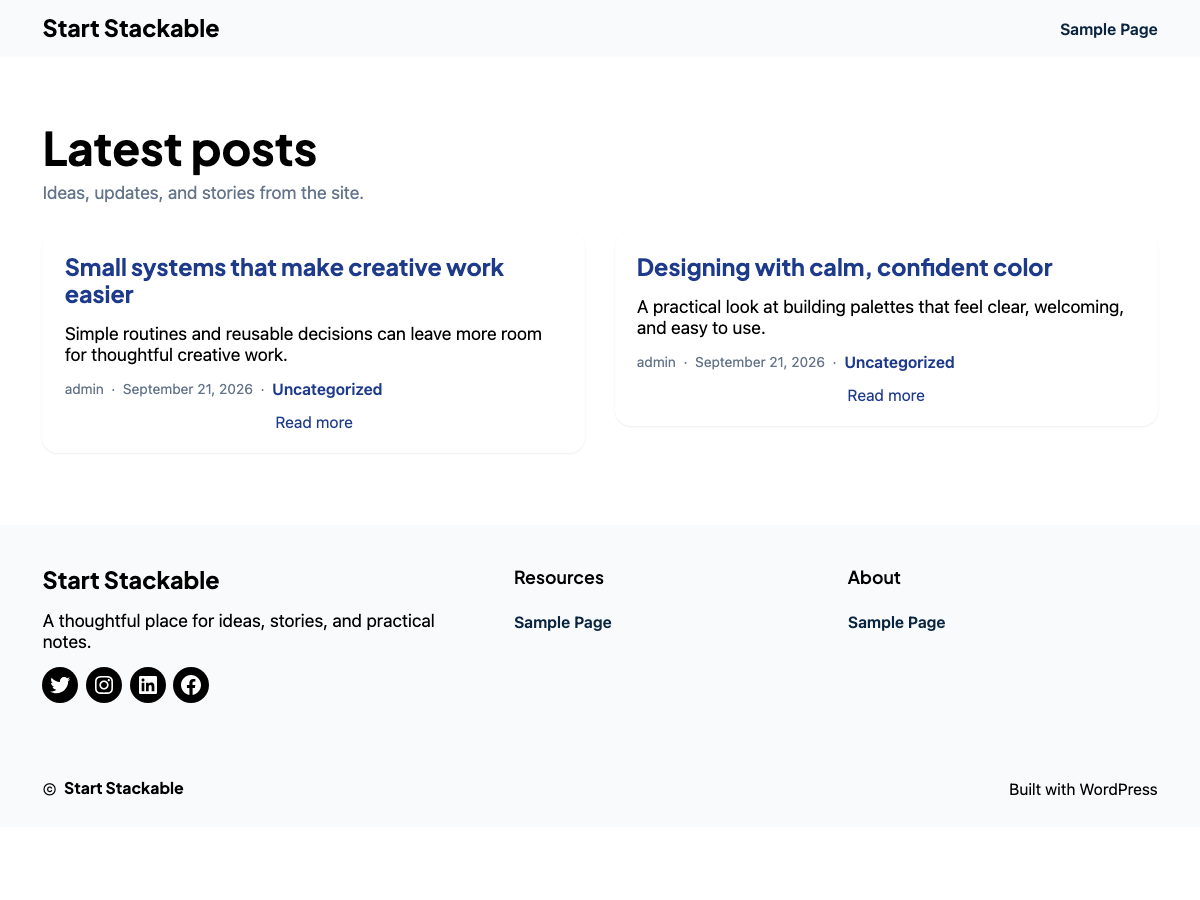
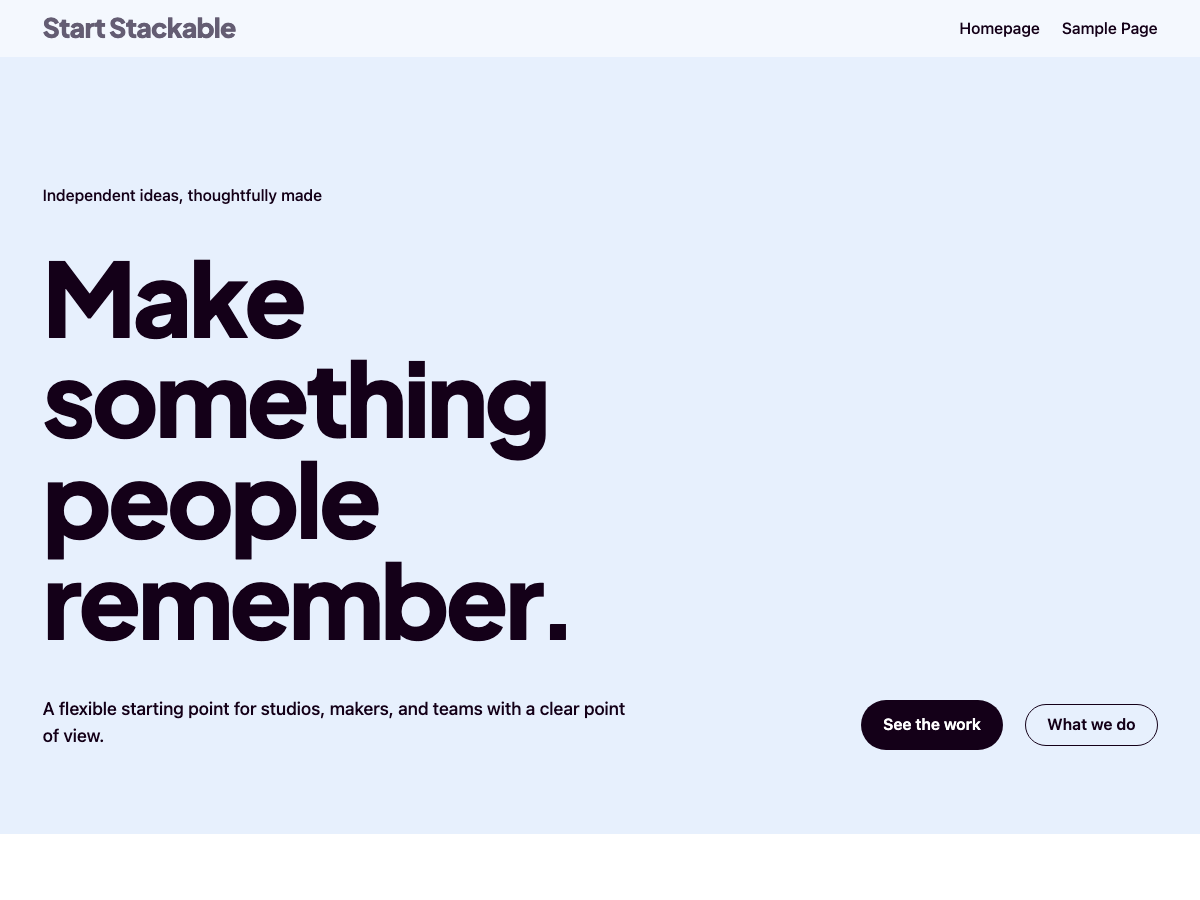
fix: per block styles should work

diff --git a/e2e/tests/tokens-and-variations.spec.ts b/e2e/tests/tokens-and-variations.spec.ts
@@ -70,6 +70,7 @@ type ThemeGlobalStyles = {
 	}
 	styles: {
 		blocks: Record< string, unknown >
+		css?: string
 		elements: Record< string, unknown >
 		typography: {
 			fontFamily: string
@@ -180,7 +181,7 @@ test.describe( 'Tokens and style variations', () => {
 		designSystemCheckPage = await requestUtils.createRecord< RestRecord >( 'pages', {
 			title: 'Phase 2 Design System Check',
 			slug: `phase-2-design-system-check-${ Date.now() }`,
-			content: '<!-- wp:heading --><h2 class="wp-block-heading">Palette heading</h2><!-- /wp:heading --><!-- wp:paragraph --><p>Default body copy.</p><!-- /wp:paragraph --><!-- wp:buttons --><div class="wp-block-buttons"><!-- wp:button --><div class="wp-block-button"><a class="wp-block-button__link wp-element-button">Primary action</a></div><!-- /wp:button --></div><!-- /wp:buttons --><!-- wp:quote --><blockquote class="wp-block-quote"><!-- wp:paragraph --><p>Default quote.</p><!-- /wp:paragraph --><cite>Source</cite></blockquote><!-- /wp:quote --><!-- wp:search {"label":"Search","showLabel":false,"buttonText":"Search"} /-->',
+			content: '<!-- wp:heading --><h2 class="wp-block-heading">Palette heading</h2><!-- /wp:heading --><!-- wp:paragraph --><p>Default body copy.</p><!-- /wp:paragraph --><!-- wp:buttons --><div class="wp-block-buttons"><!-- wp:button --><div class="wp-block-button"><a class="wp-block-button__link wp-element-button">Primary action</a></div><!-- /wp:button --></div><!-- /wp:buttons --><!-- wp:quote --><blockquote class="wp-block-quote"><!-- wp:paragraph --><p>Default quote.</p><!-- /wp:paragraph --><cite>Source</cite></blockquote><!-- /wp:quote --><!-- wp:search {"label":"Search","showLabel":false,"buttonText":"Search"} /--><!-- wp:group {"className":"global-spacing-check","layout":{"type":"constrained"}} --><div class="wp-block-group global-spacing-check"><!-- wp:paragraph --><p>First spacing check.</p><!-- /wp:paragraph --><!-- wp:paragraph --><p>Second spacing check.</p><!-- /wp:paragraph --></div><!-- /wp:group -->',
 			status: 'publish',
 		} )
 		seededPost = await requestUtils.createRecord< RestRecord >( 'posts', {
@@ -284,6 +285,7 @@ test.describe( 'Tokens and style variations', () => {
 		expect( themeStyles.styles.typography.fontFamily ).toBe(
 			'var(--wp--preset--font-family--sans-serif)'
 		)
+		expect( themeStyles.styles.css ).toBeUndefined()
 		expect( Object.keys( themeStyles.styles.elements ) ).toEqual(
 			expect.arrayContaining( REQUIRED_ELEMENT_STYLES )
 		)
@@ -419,6 +421,34 @@ test.describe( 'Tokens and style variations', () => {
 			background: 'rgb(199, 210, 254)',
 			text: 'rgb(11, 17, 32)',
 		} )
+	} )
+
+	test( 'user block spacing overrides the theme spacing default', async ( {
+		page,
+		requestUtils,
+	} ) => {
+		await applyStyleVariation( requestUtils, {
+			title: 'Custom group spacing',
+			styles: {
+				blocks: {
+					'core/group': {
+						spacing: {
+							blockGap: '7px',
+						},
+					},
+				},
+			},
+		} )
+		await page.goto( new URL( designSystemCheckPage.link ).pathname )
+
+		const firstParagraph = page.getByText( 'First spacing check.', { exact: true } )
+		const secondParagraph = page.getByText( 'Second spacing check.', { exact: true } )
+		const firstBox = await firstParagraph.boundingBox()
+		const secondBox = await secondParagraph.boundingBox()
+
+		expect( firstBox ).not.toBeNull()
+		expect( secondBox ).not.toBeNull()
+		expect( secondBox!.y - ( firstBox!.y + firstBox!.height ) ).toBeCloseTo( 7, 0 )
 	} )
 
 	test( 'typography variations change visible front-end type', async ( {

diff --git a/e2e/tests/patterns.spec.ts b/e2e/tests/patterns.spec.ts
@@ -202,7 +202,13 @@ test.describe( 'Pattern catalog', () => {
 			await expect( page.getByRole( 'heading', { level: 1, name: 'Make something people remember.' } ) ).toBeVisible()
 			await expect( page.getByRole( 'link', { name: 'See the work' } ) ).toBeVisible()
 			await expect( page.getByRole( 'heading', { name: 'Selected work' } ) ).toBeVisible()
-			await expect( page.locator( '#selected-work > .wp-block-group > .wp-block-columns > .wp-block-column' ) ).toHaveCount( 2 )
+			const workColumns = page.locator( '#selected-work > .wp-block-group > .wp-block-columns > .wp-block-column' )
+			await expect( workColumns ).toHaveCount( 2 )
+			const firstWorkCardBox = await workColumns.nth( 0 ).locator( '> .wp-block-group' ).boundingBox()
+			const secondWorkCardBox = await workColumns.nth( 1 ).locator( '> .wp-block-group' ).boundingBox()
+			expect( firstWorkCardBox ).not.toBeNull()
+			expect( secondWorkCardBox ).not.toBeNull()
+			expect( secondWorkCardBox!.y ).toBeCloseTo( firstWorkCardBox!.y, 0 )
 			await expect( page.getByRole( 'heading', { name: 'From the first question to the final detail.' } ) ).toBeVisible()
 			await expect( page.getByRole( 'heading', { name: 'Notes and stories' } ) ).toBeVisible()
 			await expect( page.locator( '#latest-stories .wp-block-query' ) ).toBeVisible()

diff --git a/e2e/tests/canvases.spec.ts b/e2e/tests/canvases.spec.ts
@@ -87,6 +87,11 @@ test.describe( 'Page canvases', () => {
 		await expect( page.getByRole( 'banner' ).getByRole( 'navigation' ) ).toBeVisible()
 		await expect( page.locator( '.wp-block-post-title' ) ).toHaveCount( 0 )
 		await expect( page.getByRole( 'contentinfo' ).getByRole( 'heading', { name: 'Resources' } ) ).toBeVisible()
+		const headerBox = await page.getByRole( 'banner' ).boundingBox()
+		const mainBox = await page.getByRole( 'main' ).boundingBox()
+		expect( headerBox ).not.toBeNull()
+		expect( mainBox ).not.toBeNull()
+		expect( mainBox!.y ).toBeCloseTo( headerBox!.y + headerBox!.height, 0 )
 		const fullBlock = page.locator( '.wp-block-post-content > .alignfull' )
 		const fullBox = await fullBlock.boundingBox()
 		expect( fullBox ).not.toBeNull()

diff --git a/patterns/page-home.php b/patterns/page-home.php
@@ -92,8 +92,8 @@
 <!-- /wp:group --></div>
 <!-- /wp:column -->
 
-<!-- wp:column {"style":{"spacing":{"padding":{"top":"var:preset|spacing|xx-large"}}}} -->
-<div class="wp-block-column" style="padding-top:var(--wp--preset--spacing--xx-large)"><!-- wp:group {"backgroundColor":"primary-deep","textColor":"base","style":{"border":{"radius":"var:preset|border-radius|large"},"dimensions":{"minHeight":"560px"},"spacing":{"blockGap":"var:preset|spacing|medium","padding":{"top":"var:preset|spacing|x-large","right":"var:preset|spacing|x-large","bottom":"var:preset|spacing|x-large","left":"var:preset|spacing|x-large"}}},"layout":{"type":"flex","orientation":"vertical","justifyContent":"space-between"}} -->
+<!-- wp:column -->
+<div class="wp-block-column"><!-- wp:group {"backgroundColor":"primary-deep","textColor":"base","style":{"border":{"radius":"var:preset|border-radius|large"},"dimensions":{"minHeight":"560px"},"spacing":{"blockGap":"var:preset|spacing|medium","padding":{"top":"var:preset|spacing|x-large","right":"var:preset|spacing|x-large","bottom":"var:preset|spacing|x-large","left":"var:preset|spacing|x-large"}}},"layout":{"type":"flex","orientation":"vertical","justifyContent":"space-between"}} -->
 <div class="wp-block-group has-base-color has-primary-deep-background-color has-text-color has-background" style="border-radius:var(--wp--preset--border-radius--large);min-height:560px;padding-top:var(--wp--preset--spacing--x-large);padding-right:var(--wp--preset--spacing--x-large);padding-bottom:var(--wp--preset--spacing--x-large);padding-left:var(--wp--preset--spacing--x-large)"><!-- wp:paragraph {"fontSize":"small"} -->
 <p class="has-small-font-size"><?php esc_html_e( '02 · Strategy and experience', 'start-stackable' ); ?></p>
 <!-- /wp:paragraph -->

diff --git a/patterns/template-full-width.php b/patterns/template-full-width.php
@@ -9,8 +9,8 @@
 
 <!-- wp:template-part {"slug":"header","tagName":"header"} /-->
 
-<!-- wp:group {"tagName":"main","align":"full","layout":{"type":"default"}} -->
-<main class="wp-block-group alignfull"><!-- wp:post-content {"align":"full","layout":{"type":"default"}} /--></main>
+<!-- wp:group {"tagName":"main","align":"full","style":{"spacing":{"margin":{"top":"0"}}},"layout":{"type":"default"}} -->
+<main class="wp-block-group alignfull" style="margin-top:0"><!-- wp:post-content {"align":"full","layout":{"type":"default"}} /--></main>
 <!-- /wp:group -->
 
 <!-- wp:template-part {"slug":"footer","tagName":"footer"} /-->

diff --git a/docs/prd/start-stackable.agents.md b/docs/prd/start-stackable.agents.md
@@ -66,7 +66,7 @@ If a kit needs a new header or footer behavior, add it here and extend this list
 | Navigation overflow | At desktop widths, header Navigation stays on one line and moves only trailing items that do not fit into an accessible More disclosure. At mobile widths, core Navigation owns the overlay and receives every original item. |
 | Hide header / hide footer | Per-page via `blank` canvas and/or a page flag the plugin can set on import. |
 | `page` | Standard page: header, title allowed, footer. |
-| `full-width` | Marketing canvas: header + footer, **no** theme page title, **no** extra main padding that blocks `alignfull` heroes. |
+| `full-width` | Marketing canvas: header + footer, **no** theme page title, **no** gap between the header and `main`, and **no** extra main padding that blocks `alignfull` heroes. |
 | `page-with-sidebar` | Editorial canvas: header + footer, page title, two-thirds main content, and the editable `sidebar` part. It stacks content before the sidebar on small screens. |
 | `blank` | Post content only. No header, no footer. |
 | `sidebar` | Editable core-block template part used by `page-with-sidebar`; ships with Search, Latest Posts, and Categories. |
@@ -126,7 +126,8 @@ Not allowed: a section catalog of heroes, pricing, testimonials, team, FAQ, logo
 Do not take a later gap first.
 Each item is gone or explicitly deferred in an ADR.
 
-- Phase 10-11: no `screenshot.png`; snap-in contract on paper only.
+- Phase 10: directory packaging acceptance remains.
+- Phase 11: snap-in contract is on paper only.
 
 ## Implementation sequence
 
@@ -164,7 +165,7 @@ Then run that phase in [`start-stackable.check.md`](./start-stackable.check.md).
 | `assets/fonts/` | Plus Jakarta Sans (headings) |
 | `assets/images/` | CC0 pattern images |
 | `webpack.config.js` | `@wordpress/scripts` entry → `assets/build/` |
-| `screenshot.png` | Directory first paint (must match Default) |
+| `screenshot.png` | Directory first paint of the Homepage starter on Full Width (must use Default styles) |
 | `readme.txt` | Directory listing, licenses |
 
 ## E2E (create these after the surface exists)
@@ -180,11 +181,11 @@ Do not add failing specs for an unfinished header or footer.
 | Spec file (intended) | Assertions |
 | --- | --- |
 | `e2e/tests/standalone-activate.spec.ts` | Theme activates; the missing-plugin notice points to the WordPress.org Stackable slug; `/` shows header + post grid + footer; no `stackable/` in markup; Navigation has no stale `ref`. |
-| `e2e/tests/tokens-and-variations.spec.ts` | Default palette slugs exist; switching a color or typography variation updates presets on the front. |
+| `e2e/tests/tokens-and-variations.spec.ts` | Default palette slugs exist; switching a color or typography variation updates presets on the front; user block spacing overrides the theme default. |
 | `e2e/tests/blog.spec.ts` | Create a post with featured image; `single` shows title, image, date, comments form; `home`/`archive` shows a grid card; `search` finds it; `404` shows search. |
-| `e2e/tests/canvases.spec.ts` | Page on `page` shows title; same page on `full-width` has no theme `h1` from Post Title and content can be `alignfull`; `page-with-sidebar` renders primary content before an editable sidebar and stacks without overflow; `blank` has no header/footer in the DOM. |
+| `e2e/tests/canvases.spec.ts` | Page on `page` shows title; same page on `full-width` has no theme `h1` from Post Title, starts `main` directly after the header, and content can be `alignfull`; `page-with-sidebar` renders primary content before an editable sidebar and stacks without overflow; `blank` has no header/footer in the DOM. |
 | `e2e/tests/header-flags.spec.ts` | Transparent header overlays a full-bleed first section; after scroll, header background is opaque; `--stk-header-height` is a non-zero px value; mobile menu opens above the hero; desktop Navigation moves only non-fitting trailing links into More and restores them for wide and mobile layouts. |
-| `e2e/tests/patterns.spec.ts` | The complete catalog registers with intended visibility; a new page offers exactly one Homepage starter; the starter renders cleanly on Full Width in Default and Dark. |
+| `e2e/tests/patterns.spec.ts` | The complete catalog registers with intended visibility; a new page offers exactly one Homepage starter; the starter renders cleanly on Full Width in Default and Dark, with its Selected Work cards aligned on one desktop row. |
 | `e2e/tests/woocommerce.spec.ts` | With WooCommerce active: theme templates register and open without recovery UI; catalog, taxonomy, search, product, cart, checkout, My Account, order confirmation, and anonymous store-only Coming Soon render; mobile commerce views do not overflow. |
 | `e2e/tests/onboarding.spec.ts` | Theme activation creates no content; installed-inactive Stackable can be activated by the user; active Stackable receives the breakpoints and suppresses the notice; after deactivation and dismiss the notice stays gone. |
 | `e2e/tests/with-plugin-snap-in.spec.ts` | With Stackable active: `body` has `stk--is-stackable-theme`; a fixture kit import (plugin e2e) assigns `full-width` and transparent header without missing blocks. |

diff --git a/e2e/readme.md b/e2e/readme.md
@@ -89,11 +89,11 @@ opens the editor. Do not listen for console `Block validation` messages.
 | Spec | Assertions (shipped now) |
 | --- | --- |
 | `e2e/tests/standalone-activate.spec.ts` | Theme activates from a default theme; the missing-plugin notice points to the WordPress.org Stackable slug; the front shows the pattern-backed header, navigation, footer, and user-site copyright; standard and full-width pages resolve the active theme's header/footer; Site Editor renders every shell part without missing-part or recovery UI; no `stackable/` markup; 404 template renders. |
-| `e2e/tests/tokens-and-variations.spec.ts` | WordPress exposes the complete Default token contract, including the ink and pale blue palette, expanded fluid spacing/type, 20px large radius, pill actions, fonts, element styles, and required block styles; core headings, buttons, and quotes render those defaults; every color variation keeps the same palette slugs; Dark recolors the shell and content; both typography presets change visible front-end type. |
+| `e2e/tests/tokens-and-variations.spec.ts` | WordPress exposes the complete Default token contract, including the ink and pale blue palette, expanded fluid spacing/type, 20px large radius, pill actions, fonts, element styles, and required block styles; core headings, buttons, and quotes render those defaults; user block spacing overrides the theme default; every color variation keeps the same palette slugs; Dark recolors the shell and content; both typography presets change visible front-end type. |
 | `e2e/tests/blog.spec.ts` | The latest-posts and configured posts-page grids share complete responsive cards, including equal desktop columns and a single mobile column; untitled cards retain working permalinks with and without images across blog, archive, and search; single posts honor wide/full content alignment and mobile text gutters without overflow; single, archive, search, empty search, and 404 views are designed; blog templates render both header/footer parts in Site Editor without missing-part or recovery UI. |
-| `e2e/tests/canvases.spec.ts` | Standard pages show a theme title and constrained text; Full Width removes the theme title and lets its first `alignfull` block reach both viewport edges on desktop and mobile; Page with Sidebar keeps content primary and stacks cleanly on mobile; Blank renders content without header, footer, or theme title; all four hidden canvas patterns register and load in Site Editor without recovery UI. |
+| `e2e/tests/canvases.spec.ts` | Standard pages show a theme title and constrained text; Full Width removes the theme title, starts `main` directly after the header, and lets its first `alignfull` block reach both viewport edges on desktop and mobile; Page with Sidebar keeps content primary and stacks cleanly on mobile; Blank renders content without header, footer, or theme title; all four hidden canvas patterns register and load in Site Editor without recovery UI. |
 | `e2e/tests/header-flags.spec.ts` | Sticky and transparent body flags normalize onto the header wrapper; the header overlays a full-width hero, becomes solid after scroll with contrast-safe text, exposes a non-zero height token, and keeps a full-viewport, closable mobile navigation overlay above the hero. Long desktop Navigation stays on one line by moving only trailing links into an accessible More disclosure, then restores every link on wide desktop and in core's mobile overlay. |
-| `e2e/tests/patterns.spec.ts` | WordPress registers the complete 28-pattern catalog with the intended visibility and block types; new pages offer exactly one Homepage starter; the starter renders full-bleed and without overflow on Full Width, remains contrast-safe in Default and Dark, and opens in the editor without recovery UI. |
+| `e2e/tests/patterns.spec.ts` | WordPress registers the complete 28-pattern catalog with the intended visibility and block types; new pages offer exactly one Homepage starter; the starter renders full-bleed and without overflow on Full Width, aligns its Selected Work cards on one desktop row, remains contrast-safe in Default and Dark, and opens in the editor without recovery UI. |
 | `e2e/tests/woocommerce.spec.ts` | The WooCommerce profile verifies plugin activation; seven theme commerce templates register and open in the Site Editor without recovery UI; seeded catalog, category, product search, single product, Cart, Checkout, My Account, order confirmation, and anonymous store-only Coming Soon views render; mobile commerce views fit 375px; Dark restyles order confirmation. |
 | `e2e/tests/onboarding.spec.ts` | The onboarding profile verifies theme activation creates no pages or Navigation records; installed-inactive Stackable has a user-initiated activation action; active Stackable suppresses the notice, keeps the shell body class, and receives the responsive breakpoints; dismissal persists after deactivation and reload. |
 

diff --git a/docs/prd/start-stackable.check.md b/docs/prd/start-stackable.check.md
@@ -104,7 +104,7 @@ Stop if law and the tree disagree; law wins.
 ## Phase 5 - Canvases
 
 - [ ] `page` template shows a theme post title.
-- [ ] `full-width` has no Post Title block and no extra `main` padding that blocks `alignfull`.
+- [ ] `full-width` has no Post Title block, no gap between the header and `main`, and no extra `main` padding that blocks `alignfull`.
 - [ ] `page-with-sidebar` has a page title, two-thirds main content, an editable `sidebar` part, and stacks content before the sidebar without mobile overflow.
 - [ ] `blank` has no header or footer template parts.
 
@@ -155,7 +155,7 @@ Stop if law and the tree disagree; law wins.
 
 ## Phase 10 - Directory
 
-- [ ] `screenshot.png` exists and depicts Default, not a Site Kit.
+- [ ] `screenshot.png` is 1200×900 and depicts the Homepage starter on Full Width using Default styles, not a Site Kit.
 - [ ] `readme.txt` states the plugin is optional and starter sites are not in the zip.
 - [ ] Font and image licenses are listed.
 - [ ] `style.css` tags that are advertised are true (`block-patterns`, `style-variations`, `e-commerce` only if Woo templates shipped).

diff --git a/docs/prd/start-stackable.plan.md b/docs/prd/start-stackable.plan.md
@@ -900,14 +900,14 @@ Phase 9 is covered by the onboarding E2E profile and the matching acceptance che
 
 ### Implement the following
 
-1. **Screenshot of Default**
+1. **Screenshot of the Default Homepage starter**
 
-   What: 1200×900 image of `/` with sample posts, not a Site Kit.
+   What: 1200×900 image of the theme's Homepage starter on the Full Width template using Default styles, not a Site Kit.
 
-   How: capture the designed blog after Phase 4.
+   How: capture `start-stackable/page-home` after Phase 7 with user Global Styles reset to Default.
    Save as `screenshot.png` in the theme root.
 
-   Check: the file exists and matches what a fresh latest-posts site shows.
+   Check: the file exists and matches the Homepage starter inserted on a Full Width page using Default styles.
 
 2. **readme.txt for the listing**
 
